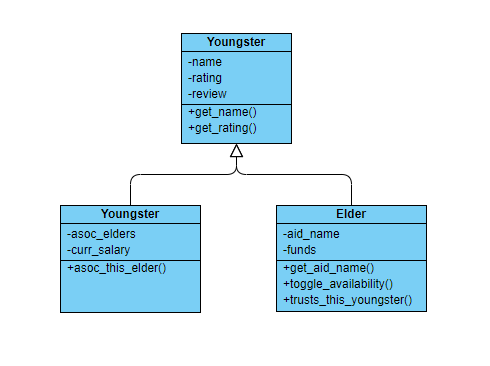
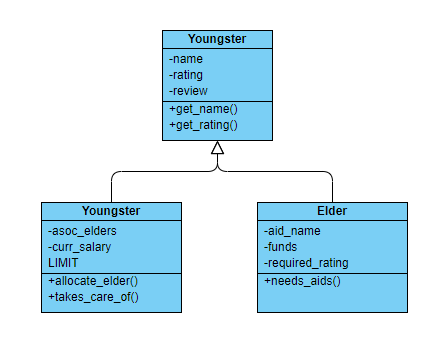
Add files via upload

diff --git a/caregiving.py b/caregiving.py
@@ -1,0 +1,70 @@
+from random import randint
+
+class Person:
+	def __init__(self, name, rating, review):
+		self.name = name
+		self.rating = rating
+		self.review = review
+	def get_name(self):
+		return self.name
+	def get_rating(self):
+		return self.rating
+
+
+
+class Elder(Person):
+
+	def __init__(self, name, rating, review, funds, required_rating=3):
+		super().__init__(name, rating, review)
+		self.funds = funds
+		self.aid_name = None
+		self.required_rating = required_rating
+
+	def needs_aid(self, youngsters):
+		youngsters.sort(key=lambda y:y.rating)
+
+		for youngster in youngsters:
+			if youngster.rating >= self.required_rating:
+				if youngster.allocate_elder(self):
+					self.aid_name = youngster.name
+					youngster.salary += self.funds
+				print(self.name + ' is taken care by ' + youngster.name)
+				return True
+		print('No caretaker found for ' + self.name)
+		return False
+
+
+class Youngster(Person):
+	
+	LIMIT = 4
+	def __init__(self, name, rating, review=''):
+		super().__init__(name, rating, review)
+		self.salary = 0
+		self.asoc_elders = []
+
+	def allocate_elder(self, elder):
+		if len(self.asoc_elders) < Youngster.LIMIT:
+			self.asoc_elders.append(elder)
+			return True
+		return False
+
+	def takes_care_of(self):
+		return [oldie.name for oldie in self.asoc_elders]
+
+
+if __name__=='__main__':
+	alice, bob, charlie = Youngster('Alice', 3.7, ''), Youngster('Bob', 2.9, ''), Youngster('Charlie', 5, '')
+	youngsters = [alice, bob, charlie]
+	elders = ['dexter', 'eve', 'france', 'gordon', 'hilbert', 'ian', 'jamfal', 'kaju']
+	e_ratings = [3,2,2,4,2,4,3,2]
+	dexter, eve, france, gordon, hilbert, ian, jamfal, kaju = \
+		[Elder(name, randint(1,5), '', 100*randint(1,9), req) for name,req in zip(elders,e_ratings)]
+	elders = [dexter, eve, france, gordon, hilbert, ian, jamfal, kaju]
+	for elder in elders:
+		elder.needs_aid(youngsters)
+	for y in youngsters:
+		print();print()
+		print('Name: ', y.name)
+		print('Rating: ', y.rating)
+		print('Salary: ', y.salary)
+		print('Elders: ', y.takes_care_of())
